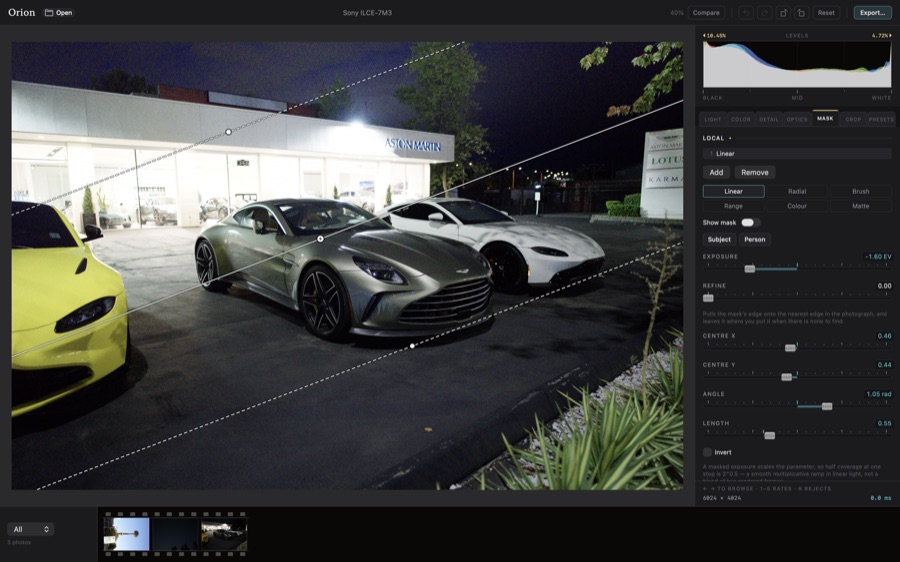
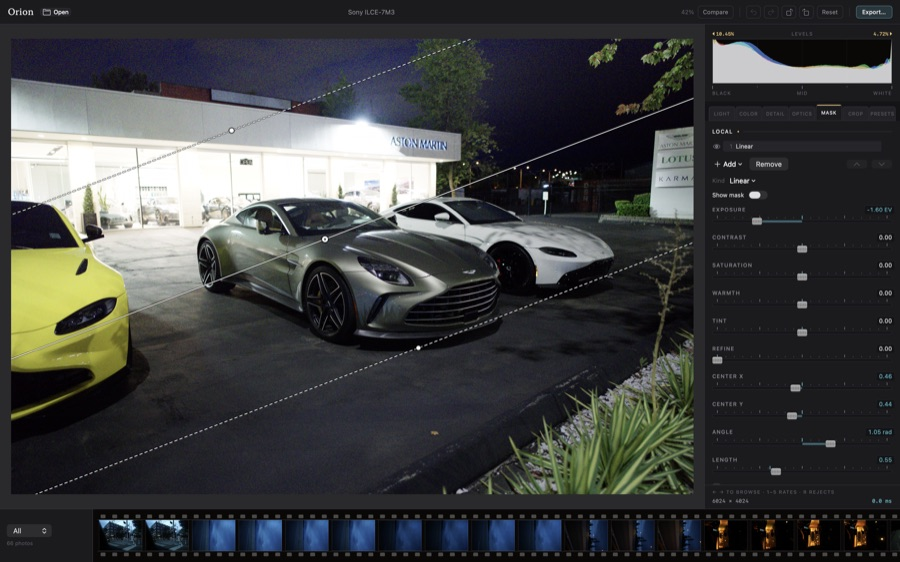
fix: draw the info text instead of asking .help for it, and refresh the site shot
Measured on the developer's machine: with hit testing fixed the glyph
highlights on hover -- so events reach the icon -- and .help still renders no
tooltip at all. That splits the bug cleanly. Hit testing was necessary and was
not sufficient; .help is simply not producing a tooltip here.

So the text is drawn rather than delegated. A popover, because the nameplate
lives inside a scroll view and an overlay wide enough to be readable is clipped
by the column it sits in -- and the clipped part is the end of the sentence. A
popover is its own window and cannot be clipped. arrowEdge .leading opens it
across the panel rather than under the pointer, which would bounce the hover
on and off.

.help is kept beside it, costing one line, in case the platform provides it for
someone else. Nothing depends on it.

The site's interface shot was captured on 30 July under a caption reading "the
interface as it runs today", and today includes eleven decisions it does not
show. Regenerated from the mask-linear scene at both sizes; the alt text still
describes it exactly -- three dashed guides, endpoint handles, Exposure -1.60 EV.

Gates: 844 engine checks, 3708 viewport, 41 of 41 repro scenarios, orion-bench
exit 0 on three frames, check-decisions exit 0.

Claude-Session: https://claude.ai/code/session_01M49hbubAVmGgftb1Hdn8gw

diff --git a/app/Engraved.swift b/app/Engraved.swift
@@ -113,8 +113,29 @@ enum Engraved {
                 // delay has elapsed.
                 .contentShape(Rectangle())
                 .onHover { inside = $0 }
+                // ⚠ Kept, and it is **not** what shows the text. Measured on
+                // the developer's machine: with hit testing fixed the glyph
+                // highlights on hover and `.help` still renders nothing at all.
+                // It costs one line and may work on someone else's setup, so it
+                // stays — but nothing depends on it.
                 .help(text)
                 .accessibilityLabel(Text(text))
+                // ⚠ **A popover, because the nameplate lives inside a scroll
+                // view.** An overlay wide enough to be readable is clipped by
+                // the column it sits in, and the clipped part is the end of the
+                // sentence. A popover is its own window and cannot be clipped.
+                //
+                // Driven by the hover state, and `arrowEdge: .leading` puts it
+                // to the *left* of the icon — the icon sits at the panel's right
+                // edge, so the bubble opens across the panel rather than under
+                // the pointer, which would bounce the hover on and off.
+                .popover(isPresented: .constant(inside), arrowEdge: .leading) {
+                    Text(text)
+                        .font(.system(size: 11))
+                        .fixedSize(horizontal: false, vertical: true)
+                        .frame(width: 250, alignment: .leading)
+                        .padding(12)
+                }
         }
     }
 
